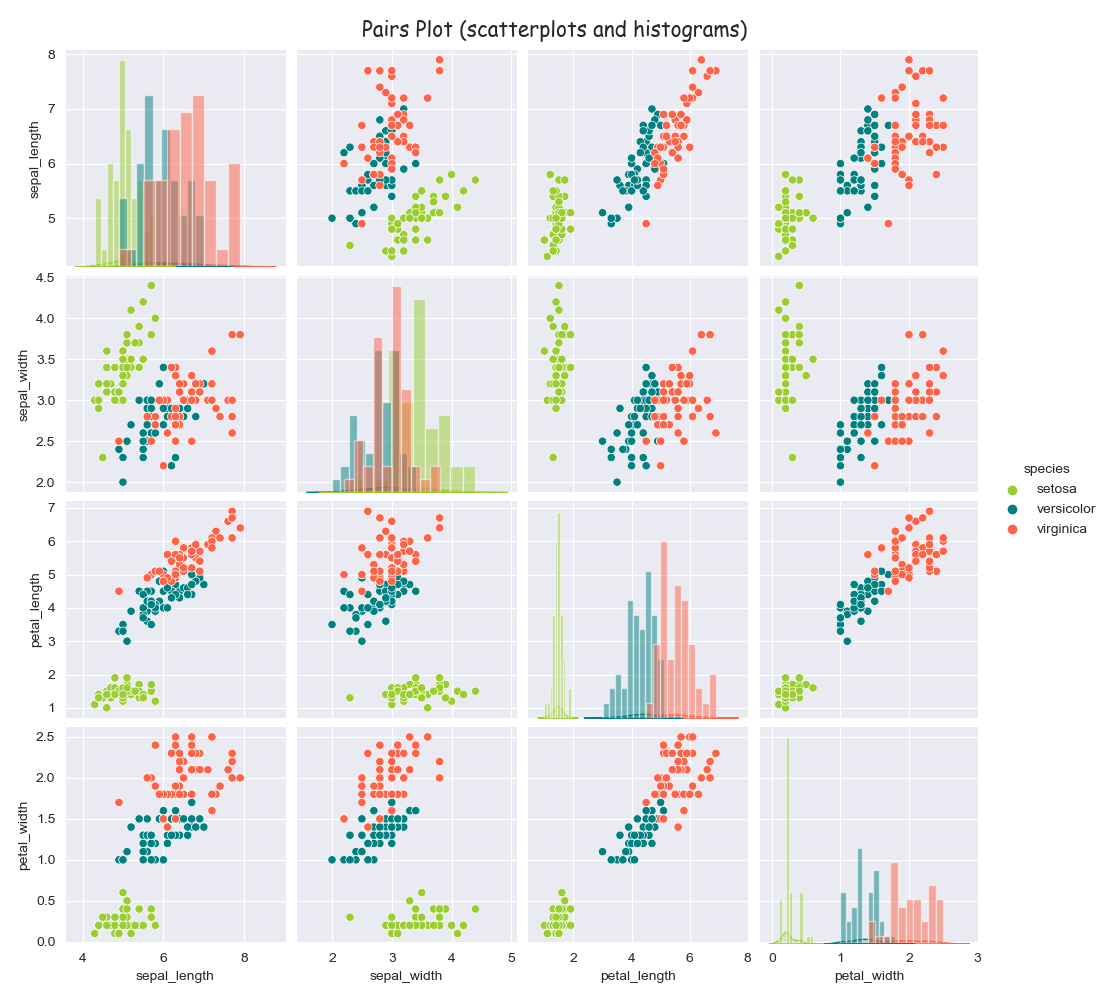
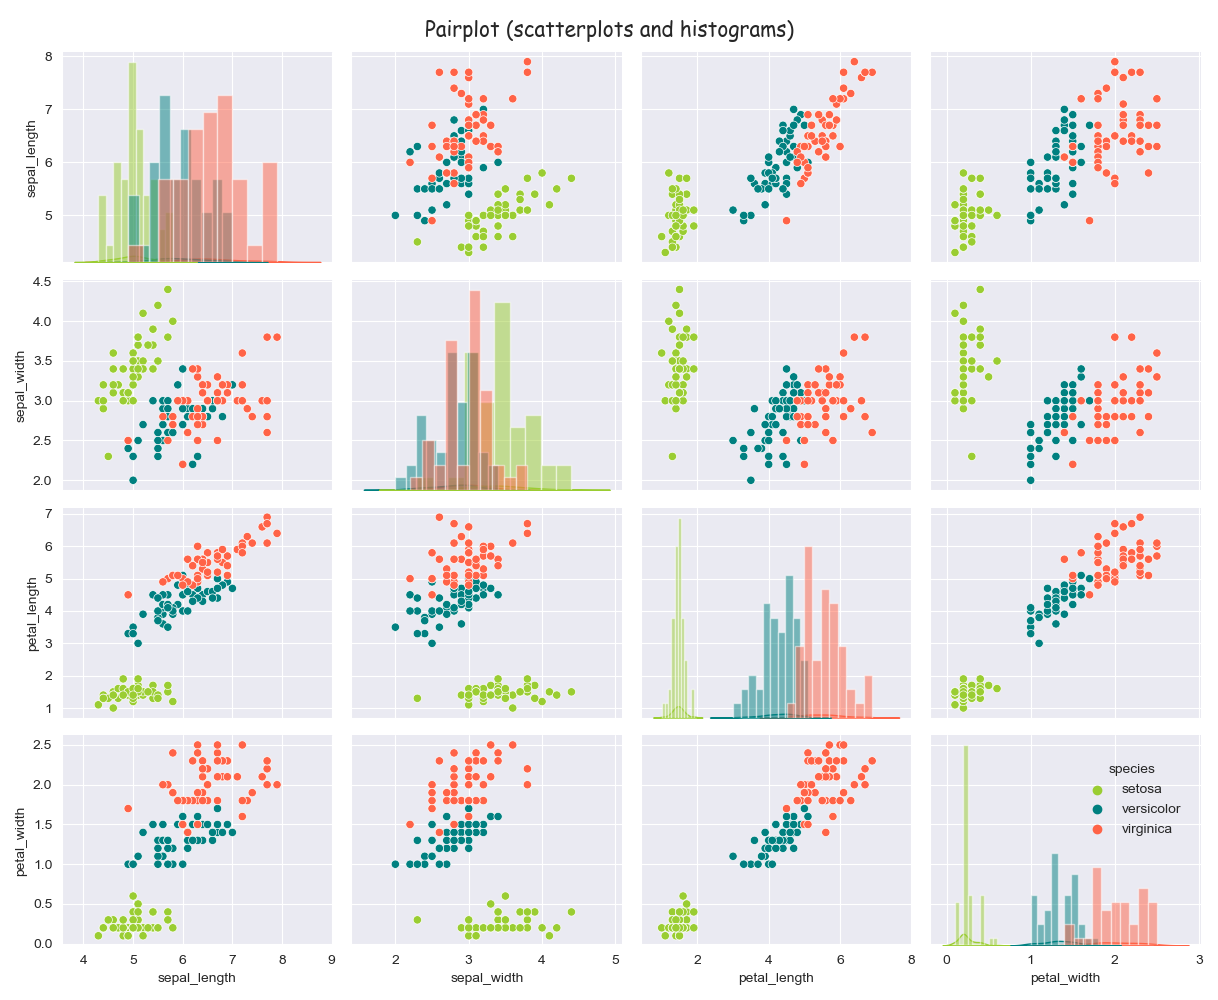
few more tweaks

diff --git a/analysis.py b/analysis.py
@@ -10,6 +10,8 @@ import matplotlib.pyplot as plt
 import seaborn as sns
 import csv
 
+# pylint: disable=unused-variable
+
 # reads in the dataset
 iris = pd.read_csv("/Users/caoimhinvallely/Desktop/Programming/Programming2021/pands-project2021/iris_dataset.csv")
 
@@ -217,29 +219,34 @@ def histograms():
     plt.savefig('/Users/caoimhinvallely/Desktop/Programming/Programming2021/pands-project2021/Images/histogram.png')
     plt.show()
 
-# creating a pairgrid for all the variables
+# creating a pairplot for all the variables
 def pairplot():
-    pg_1 = sns.pairplot(iris, hue = 'species', palette=color_theme1)
-    pg_1.map_diag(plt.hist, alpha=0.5) # creates histogram on the diagonal
-    plt.subplots_adjust(top=.95) # creates apce above the plot for the title
+    pp_1 = sns.pairplot(iris, hue = 'species', palette=color_theme1)
+    pp_1.map_diag(plt.hist, alpha=0.5) # creates histogram on the diagonal
+    plt.subplots_adjust(top=.95) # creates space above the plot for the title
     plt.tick_params(axis='both', which='major', labelsize=5) # sets ticks
     # sets title with formatting
-    plt.suptitle('Pairs Plot (scatterplots and histograms)', fontsize=15, fontname='fantasy')
+    plt.suptitle('Pairplot (scatterplots and histograms)', fontsize=15, fontname='fantasy')
+    # removes default legend which I couldn't get to move?
+    pp_1._legend.remove()
+    # creates a new legend which I can position in a more suitable place
+    pp_1.add_legend(bbox_to_anchor=(0.98, 0.2))
     plt.tight_layout()
     plt.savefig('/Users/caoimhinvallely/Desktop/Programming/Programming2021/pands-project2021/Images/pairplot.png')
     plt.show()
 
-# another pairplot with KDE this time
+# pairgrid with KDE this time
 def pairgrid():
     pg_2 = sns.PairGrid(iris, hue = 'species', palette=color_theme1)
     pg_2.map_upper(sns.kdeplot, shade=True, alpha=0.5) # creates KDE above and below the diagonal. aplha set to 
-                                                        # so we can see through
+                                                                           # so we can see through
     pg_2.map_lower(sns.kdeplot, alpha=0.5)
     pg_2.map_diag(sns.kdeplot, shade=True, alpha=0.5) # KDE histogram on the diagonal
     plt.subplots_adjust(top=.95) # creates apce above the plot for the title
     plt.tick_params(axis='both', which='major', labelsize=5) # sets ticks
     # sets title and formatting
     plt.suptitle('Pair Grid (KDE scatterplots and histograms)', fontsize=13, fontname='fantasy')
+    pg_2.add_legend(bbox_to_anchor=(0.98, 0.22))
     plt.tight_layout()
     plt.savefig('/Users/caoimhinvallely/Desktop/Programming/Programming2021/pands-project2021/Images/pairgrid.png')
     plt.show()
@@ -287,13 +294,13 @@ def main_menu():
         elif y == '8':
             print("OK! Sorry to see you go!")
         else: 
-            print('Invalid selection')
+            print('Invalid selection1 Try again!')
             main_menu()
 
     elif x == '2':
         z = input("\nChoose from the following:\n\n\t1) Heatmap\n\t2) Boxplot (all classes)\n\
         3) Boxplots (classes separated)\n\t4) Violin Plots (all classes)\n\t5) Strip Plots (classes separated)\n\
-        6) Histograms\n\t7) Pairs Plot\n\t8) Pairgrid\n\t9) Quit\n\t")
+        6) Histograms\n\t7) Pairplot\n\t8) Pairgrid\n\t9) Quit\n\t")
         if z == '1':
             heatmap()
             try_again()

diff --git a/README.md b/README.md
@@ -143,13 +143,13 @@ Up until now all of the plotting has involved looking at one numeric parameter a
 - **scatter plot**
 >"A scatterplot is a graphic representation of points referencing two variables. To create a scatterplot, two variables are observed and plotted on a graph. The resulting display demonstrates the relationship between the variables. The relationship is strongest where the points are clustered closest together."
 
-![insert pairgrid Scatter here](./Images/pairgrid1.png)
+![insert pairgrid Scatter here](./Images/pairplot.png)
 
-I've used the seaborn **.PairGrid()** tool to create a **scatterplot matrix** where each combination of variable is plotted against each other. The four diagonal boxes show more histograms. 
+I've used the seaborn **.pairplot()** tool to create a **scatterplot matrix** where each combination of variable is plotted against each other. The four diagonal boxes show more histograms. 
 
-Below is another visualisation of the same data this time using KDE (kernal density estimation), which is a technique that uses probability estimation to create a smooth curve. While normally used with histograms, I think it works well here and looks visually pleasing and less cluttered than the scatter plots while revealing the same information
+Below is another visualisation of the same data this time using KDE (kernal density estimation) on a pairgrid. KDE is a technique that uses probability estimation to create a smooth curve. While normally used with histograms, I think it works well here and looks visually pleasing and less cluttered than the scatter plots while revealing the same information. Pairgrid gives me some extra flexibility over pairplot as I can use different visualisations in different sections. 
 
-![insert pairgrid KDE here](./Images/pairgrid2.png)
+![insert pairgrid KDE here](./Images/pairgrid.png)
 
 Again we can see clearly that the setosa species is quite distinct from the other two in each of the variables, especially petal dimensions. In terms of sepal dimensions, versicolar and virginica are quite closely aligned, but less so when it comes to petal dimensions where we can see a bit of divergence. However it doesn't quite separate them.
 
